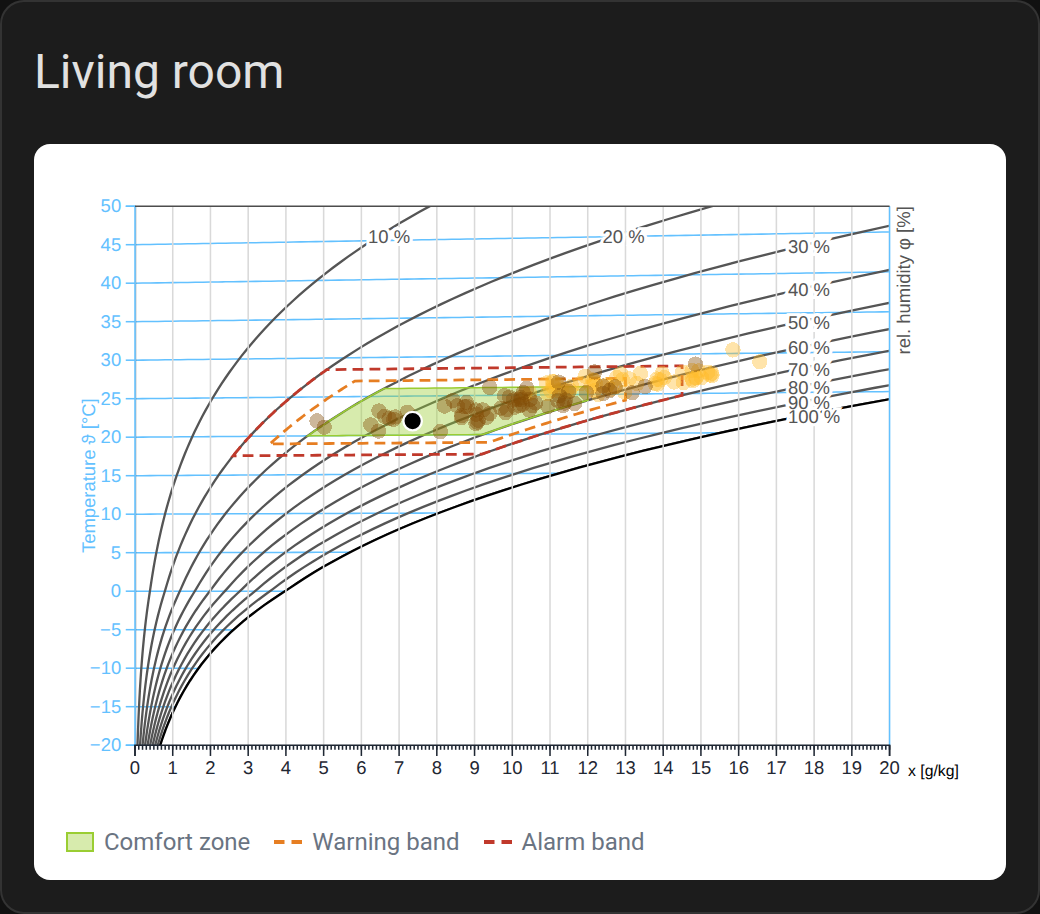
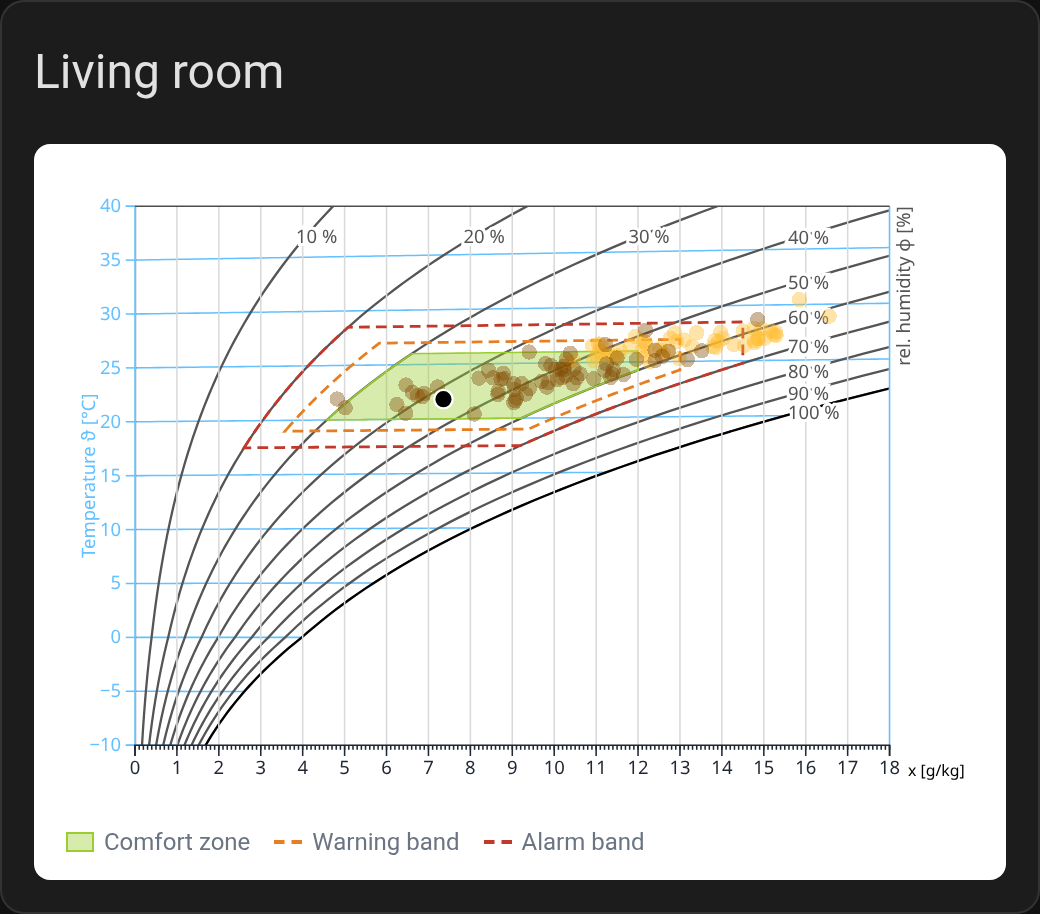
1.0.0-beta.4: default axis ranges for indoor climate
Default domain -10..40 °C and 0..18 g/kg (was -20..50 °C, 0..20 g/kg).
The editor writes domain_x / domain_y only when they differ from the
defaults.

diff --git a/dist/mollier-hx-card.js b/dist/mollier-hx-card.js
@@ -128,7 +128,7 @@
         height: 0;
         border-top: 2px dashed;
     }
-`;let rm=["classical","glueck"],r_=[0,.02],rg=[-20,50],ry={temperature:!0,relative_humidity:!0,absolute_humidity:!0,density:!1,enthalpy:!1},rx={temperature:"showTemperature",relative_humidity:"showRelHumidity",absolute_humidity:"showAbsHumidity",density:"showDensity",enthalpy:"showEnthalpy"};function rb(t){let e={...ry};if(t&&"object"==typeof t)for(let r of Object.keys(ry))"boolean"==typeof t[r]&&(e[r]=t[r]);return e}let rv={top:30,right:60,bottom:40,left:50},r$={spring:"#2db27d",summer:"#febc2b",autumn:"#824b04",winter:"#365c8d"};function rw(t){return 11===t||t<=1?"winter":t<=4?"spring":t<=7?"summer":"autumn"}function rA(t,e,r){if(!Array.isArray(t)||2!==t.length||!t.every(Number.isFinite))return e;let[n,i]=t.map(Number);return n===i?e:[Math.min(n,i)*r,Math.max(n,i)*r]}let rk=Object.keys(ry),rM={days:7,coloring:"season",pressure:101325,altitude:450,convention:"classical",x_min:0,x_max:20,y_min:-20,y_max:50,comfort_t_min:20,comfort_t_max:26,comfort_phi_min:30,comfort_phi_max:60,comfort_x_min:0,comfort_x_max:12,orange_dt:1,orange_dphi:5,orange_dx:1,red_dt:2.5,red_dphi:10,red_dx:2.5},rE=["type","temperature_entity","humidity_entity","header","days","coloring","convention","domain_x","domain_y","lines","altitude","pressure","comfort_zone","warning_bands"],rC=t=>({type:"grid",schema:[{name:`${t}_dt`,selector:{number:{min:0,step:.5,mode:"box",unit_of_measurement:"K"}}},{name:`${t}_dphi`,selector:{number:{min:0,max:100,step:1,mode:"box",unit_of_measurement:"%"}}},{name:`${t}_dx`,selector:{number:{min:0,step:.5,mode:"box",unit_of_measurement:"g/kg"}}}]}),rN=[{type:"grid",schema:[{name:"comfort_t_min",selector:{number:{step:.5,mode:"box",unit_of_measurement:"°C"}}},{name:"comfort_t_max",selector:{number:{step:.5,mode:"box",unit_of_measurement:"°C"}}}]},{type:"grid",schema:[{name:"comfort_phi_min",selector:{number:{min:0,max:100,step:1,mode:"box",unit_of_measurement:"%"}}},{name:"comfort_phi_max",selector:{number:{min:0,max:100,step:1,mode:"box",unit_of_measurement:"%"}}}]},{type:"grid",schema:[{name:"comfort_x_min",selector:{number:{min:0,step:.5,mode:"box",unit_of_measurement:"g/kg"}}},{name:"comfort_x_max",selector:{number:{min:0,step:.5,mode:"box",unit_of_measurement:"g/kg"}}}]}];customElements.define("mollier-hx-card",class extends tb{_hass;_drawn=!1;_fetchKey=null;_dailyData=[];static get properties(){return{_header:{state:!0},layout:{type:String,reflect:!0},_fixedHeight:{type:Boolean,reflect:!0,attribute:"fixed-height"},_tempEntity:{state:!0},_humEntity:{state:!0},_pressure:{state:!0},_days:{state:!0},_coloring:{state:!0},_comfortZone:{state:!0},_warningBands:{state:!0},_domainX:{state:!0},_domainY:{state:!0},_convention:{state:!0},_lines:{state:!0},_currentPoint:{state:!0},_error:{state:!0}}}setConfig(t){if(this._config=t,this._updateSizingMode(),!t.temperature_entity)throw Error("temperature_entity is required");if(!t.humidity_entity)throw Error("humidity_entity is required");(this._header=""===t.header||void 0===t.header?tn:t.header,this._tempEntity=t.temperature_entity,this._humEntity=t.humidity_entity,Number.isFinite(Number(t.altitude)))?this._pressure=101325*Math.pow(1-225577e-10*Number(t.altitude),5.25588):this._pressure=Number(t.pressure)||101325,this._days=Math.max(1,Number(t.days)||7),this._coloring=t.coloring||"season",this._comfortZone=function(t){if(!t)return null;let e=t.temperature,r=t.humidity,n=t.absolute_humidity,i=t=>Array.isArray(t)&&2===t.length&&t.every(Number.isFinite);return i(e)&&i(r)&&i(n)?{range_t:[Number(e[0]),Number(e[1])],range_phi:[Number(r[0])/100,Number(r[1])/100],range_x:[Number(n[0])/1e3,Number(n[1])/1e3]}:null}(t.comfort_zone),this._warningBands=function(t){if(!t)return null;let e=!0===t?{}:t,r={};for(let t of["orange","red"]){let n=rn[t],i=e[t]||{};r[t]={dt:Math.abs(ri(i.temperature,n.dt)),dphi:Math.abs(ri(i.humidity,n.dphi)),dx:Math.abs(ri(i.absolute_humidity,n.dx)),color:"string"==typeof i.color&&i.color?i.color:n.color,label:"string"==typeof i.label&&i.label?i.label:null}}return r.red.dt=Math.max(r.red.dt,r.orange.dt),r.red.dphi=Math.max(r.red.dphi,r.orange.dphi),r.red.dx=Math.max(r.red.dx,r.orange.dx),r}(t.warning_bands),this._domainX=rA(t.domain_x,r_,.001),this._domainY=rA(t.domain_y,rg,1),this._lines=rb(t.lines),this._convention=rm.includes(t.convention)?t.convention:"classical",this._mollier=e9(this._convention),this._hass&&this._maybeFetch()}set hass(t){let e=!this._hass;this._hass=t,e&&this._tempEntity&&this._maybeFetch(),this._updateCurrentPoint()}_updateCurrentPoint(){if(!this._hass||!this._tempEntity||!this._humEntity||!this._mollier){this._currentPoint=null;return}let t=this._hass.states[this._tempEntity],e=this._hass.states[this._humEntity];if(!t||!e){this._currentPoint=null;return}let r=function(t){let e=parseFloat(t?.state);return Number.isFinite(e)?t?.attributes?.unit_of_measurement==="°F"?(e-32)*5/9:e:NaN}(t),n=parseFloat(e.state);if(!Number.isFinite(r)||!Number.isFinite(n)){this._currentPoint=null;return}let i=n>1?n/100:n,a=this._mollier.get_x_y(r,i,this._pressure);if(!Number.isFinite(a.x)||!Number.isFinite(a.y)){this._currentPoint=null;return}let o={x:a.x,y:a.y,t:r,phi:i},s=this._currentPoint;s&&s.x===o.x&&s.y===o.y||(this._currentPoint=o)}async _maybeFetch(t=!1){if(!this._hass||!this._tempEntity||!this._humEntity)return;let e=`${this._tempEntity}|${this._humEntity}|${this._days}`;if(e!==this._fetchKey||t){this._fetchKey=e;try{let t=await rf(this._hass,this._tempEntity,this._humEntity,this._days);if(this._fetchKey!==e)return;this._dailyData=t,this._error=t.length?void 0:{key:"card.no_statistics"}}catch(t){if(this._fetchKey!==e)return;this._error={key:"card.fetch_failed",vars:{error:t&&t.message||t}},this._fetchKey=null}this.requestUpdate()}}connectedCallback(){super.connectedCallback(),clearInterval(this._refreshTimer),this._refreshTimer=setInterval(()=>this._maybeFetch(!0),36e5),this._wasConnected&&this._maybeFetch(!0),this._wasConnected=!0}disconnectedCallback(){super.disconnectedCallback(),clearInterval(this._refreshTimer),this._refreshTimer=void 0}_updateSizingMode(){let t=this._config?.grid_options?.rows;this._fixedHeight="panel"===this.layout||"grid"===this.layout&&"number"==typeof t}willUpdate(t){t.has("layout")&&this._updateSizingMode()}static styles=rp;render(){return te`
+`;let rm=["classical","glueck"],r_=[0,.018],rg=[-10,40],ry={temperature:!0,relative_humidity:!0,absolute_humidity:!0,density:!1,enthalpy:!1},rx={temperature:"showTemperature",relative_humidity:"showRelHumidity",absolute_humidity:"showAbsHumidity",density:"showDensity",enthalpy:"showEnthalpy"};function rb(t){let e={...ry};if(t&&"object"==typeof t)for(let r of Object.keys(ry))"boolean"==typeof t[r]&&(e[r]=t[r]);return e}let rv={top:30,right:60,bottom:40,left:50},r$={spring:"#2db27d",summer:"#febc2b",autumn:"#824b04",winter:"#365c8d"};function rw(t){return 11===t||t<=1?"winter":t<=4?"spring":t<=7?"summer":"autumn"}function rA(t,e,r){if(!Array.isArray(t)||2!==t.length||!t.every(Number.isFinite))return e;let[n,i]=t.map(Number);return n===i?e:[Math.min(n,i)*r,Math.max(n,i)*r]}let rk=Object.keys(ry),rM={days:7,coloring:"season",pressure:101325,altitude:450,convention:"classical",x_min:0,x_max:18,y_min:-10,y_max:40,comfort_t_min:20,comfort_t_max:26,comfort_phi_min:30,comfort_phi_max:60,comfort_x_min:0,comfort_x_max:12,orange_dt:1,orange_dphi:5,orange_dx:1,red_dt:2.5,red_dphi:10,red_dx:2.5},rE=["type","temperature_entity","humidity_entity","header","days","coloring","convention","domain_x","domain_y","lines","altitude","pressure","comfort_zone","warning_bands"],rC=t=>({type:"grid",schema:[{name:`${t}_dt`,selector:{number:{min:0,step:.5,mode:"box",unit_of_measurement:"K"}}},{name:`${t}_dphi`,selector:{number:{min:0,max:100,step:1,mode:"box",unit_of_measurement:"%"}}},{name:`${t}_dx`,selector:{number:{min:0,step:.5,mode:"box",unit_of_measurement:"g/kg"}}}]}),rN=[{type:"grid",schema:[{name:"comfort_t_min",selector:{number:{step:.5,mode:"box",unit_of_measurement:"°C"}}},{name:"comfort_t_max",selector:{number:{step:.5,mode:"box",unit_of_measurement:"°C"}}}]},{type:"grid",schema:[{name:"comfort_phi_min",selector:{number:{min:0,max:100,step:1,mode:"box",unit_of_measurement:"%"}}},{name:"comfort_phi_max",selector:{number:{min:0,max:100,step:1,mode:"box",unit_of_measurement:"%"}}}]},{type:"grid",schema:[{name:"comfort_x_min",selector:{number:{min:0,step:.5,mode:"box",unit_of_measurement:"g/kg"}}},{name:"comfort_x_max",selector:{number:{min:0,step:.5,mode:"box",unit_of_measurement:"g/kg"}}}]}];customElements.define("mollier-hx-card",class extends tb{_hass;_drawn=!1;_fetchKey=null;_dailyData=[];static get properties(){return{_header:{state:!0},layout:{type:String,reflect:!0},_fixedHeight:{type:Boolean,reflect:!0,attribute:"fixed-height"},_tempEntity:{state:!0},_humEntity:{state:!0},_pressure:{state:!0},_days:{state:!0},_coloring:{state:!0},_comfortZone:{state:!0},_warningBands:{state:!0},_domainX:{state:!0},_domainY:{state:!0},_convention:{state:!0},_lines:{state:!0},_currentPoint:{state:!0},_error:{state:!0}}}setConfig(t){if(this._config=t,this._updateSizingMode(),!t.temperature_entity)throw Error("temperature_entity is required");if(!t.humidity_entity)throw Error("humidity_entity is required");(this._header=""===t.header||void 0===t.header?tn:t.header,this._tempEntity=t.temperature_entity,this._humEntity=t.humidity_entity,Number.isFinite(Number(t.altitude)))?this._pressure=101325*Math.pow(1-225577e-10*Number(t.altitude),5.25588):this._pressure=Number(t.pressure)||101325,this._days=Math.max(1,Number(t.days)||7),this._coloring=t.coloring||"season",this._comfortZone=function(t){if(!t)return null;let e=t.temperature,r=t.humidity,n=t.absolute_humidity,i=t=>Array.isArray(t)&&2===t.length&&t.every(Number.isFinite);return i(e)&&i(r)&&i(n)?{range_t:[Number(e[0]),Number(e[1])],range_phi:[Number(r[0])/100,Number(r[1])/100],range_x:[Number(n[0])/1e3,Number(n[1])/1e3]}:null}(t.comfort_zone),this._warningBands=function(t){if(!t)return null;let e=!0===t?{}:t,r={};for(let t of["orange","red"]){let n=rn[t],i=e[t]||{};r[t]={dt:Math.abs(ri(i.temperature,n.dt)),dphi:Math.abs(ri(i.humidity,n.dphi)),dx:Math.abs(ri(i.absolute_humidity,n.dx)),color:"string"==typeof i.color&&i.color?i.color:n.color,label:"string"==typeof i.label&&i.label?i.label:null}}return r.red.dt=Math.max(r.red.dt,r.orange.dt),r.red.dphi=Math.max(r.red.dphi,r.orange.dphi),r.red.dx=Math.max(r.red.dx,r.orange.dx),r}(t.warning_bands),this._domainX=rA(t.domain_x,r_,.001),this._domainY=rA(t.domain_y,rg,1),this._lines=rb(t.lines),this._convention=rm.includes(t.convention)?t.convention:"classical",this._mollier=e9(this._convention),this._hass&&this._maybeFetch()}set hass(t){let e=!this._hass;this._hass=t,e&&this._tempEntity&&this._maybeFetch(),this._updateCurrentPoint()}_updateCurrentPoint(){if(!this._hass||!this._tempEntity||!this._humEntity||!this._mollier){this._currentPoint=null;return}let t=this._hass.states[this._tempEntity],e=this._hass.states[this._humEntity];if(!t||!e){this._currentPoint=null;return}let r=function(t){let e=parseFloat(t?.state);return Number.isFinite(e)?t?.attributes?.unit_of_measurement==="°F"?(e-32)*5/9:e:NaN}(t),n=parseFloat(e.state);if(!Number.isFinite(r)||!Number.isFinite(n)){this._currentPoint=null;return}let i=n>1?n/100:n,a=this._mollier.get_x_y(r,i,this._pressure);if(!Number.isFinite(a.x)||!Number.isFinite(a.y)){this._currentPoint=null;return}let o={x:a.x,y:a.y,t:r,phi:i},s=this._currentPoint;s&&s.x===o.x&&s.y===o.y||(this._currentPoint=o)}async _maybeFetch(t=!1){if(!this._hass||!this._tempEntity||!this._humEntity)return;let e=`${this._tempEntity}|${this._humEntity}|${this._days}`;if(e!==this._fetchKey||t){this._fetchKey=e;try{let t=await rf(this._hass,this._tempEntity,this._humEntity,this._days);if(this._fetchKey!==e)return;this._dailyData=t,this._error=t.length?void 0:{key:"card.no_statistics"}}catch(t){if(this._fetchKey!==e)return;this._error={key:"card.fetch_failed",vars:{error:t&&t.message||t}},this._fetchKey=null}this.requestUpdate()}}connectedCallback(){super.connectedCallback(),clearInterval(this._refreshTimer),this._refreshTimer=setInterval(()=>this._maybeFetch(!0),36e5),this._wasConnected&&this._maybeFetch(!0),this._wasConnected=!0}disconnectedCallback(){super.disconnectedCallback(),clearInterval(this._refreshTimer),this._refreshTimer=void 0}_updateSizingMode(){let t=this._config?.grid_options?.rows;this._fixedHeight="panel"===this.layout||"grid"===this.layout&&"number"==typeof t}willUpdate(t){t.has("layout")&&this._updateSizingMode()}static styles=rp;render(){return te`
             <ha-card header="${this._header}">
                 <div class="card-content">
                     ${this._error?te`<p class="${"card.no_statistics"===this._error.key?"message":"error"}">${this._t(this._error.key,this._error.vars)}</p>`:te`
@@ -158,4 +158,4 @@
                 .computeLabel=${t=>e(`editor.fields.${t.name}`)}
                 @value-changed=${this._valueChanged}
             ></ha-form>
-        `}_valueChanged(t){let e=function(t,e={}){let r={...e};for(let t of rE)delete r[t];Object.assign(r,{type:"custom:mollier-hx-card",temperature_entity:t.temperature_entity,humidity_entity:t.humidity_entity,days:t.days,coloring:t.coloring,convention:t.convention,domain_x:[t.x_min,t.x_max],domain_y:[t.y_min,t.y_max]}),t.header&&(r.header=t.header);let n={};for(let e of rk)t[`line_${e}`]!==ry[e]&&(n[e]=t[`line_${e}`]);if(Object.keys(n).length&&(r.lines=n),"altitude"===t.air_mode?r.altitude=t.altitude:(void 0!==e.pressure||t.pressure!==rM.pressure)&&(r.pressure=t.pressure),t.comfort_enabled&&(r.comfort_zone={temperature:[t.comfort_t_min,t.comfort_t_max],humidity:[t.comfort_phi_min,t.comfort_phi_max],absolute_humidity:[t.comfort_x_min,t.comfort_x_max]},t.bands_enabled)){let n="object"==typeof e.warning_bands&&e.warning_bands?e.warning_bands:{};r.warning_bands={orange:{...n.orange,temperature:t.orange_dt,humidity:t.orange_dphi,absolute_humidity:t.orange_dx},red:{...n.red,temperature:t.red_dt,humidity:t.red_dphi,absolute_humidity:t.red_dx}}}return r}(t.detail.value,this._config);this.dispatchEvent(new CustomEvent("config-changed",{detail:{config:e},bubbles:!0,composed:!0}))}}),window.customCards=window.customCards||[],window.customCards.push({type:"mollier-hx-card",name:"Mollier hx card",description:"A custom card which creates a mollier hx diagram out of a temperature- and humidity sensor entity.",preview:!0,documentationURL:"https://github.com/retomarek/mollier-hx-card"}),console.info("%c MOLLIER-HX-CARD %c v1.0.0-beta.3 ","color: white; background: #3b6ea8; font-weight: 700;","color: #3b6ea8; background: white; font-weight: 700;")})();
+        `}_valueChanged(t){let e=function(t,e={}){let r={...e};for(let t of rE)delete r[t];Object.assign(r,{type:"custom:mollier-hx-card",temperature_entity:t.temperature_entity,humidity_entity:t.humidity_entity,days:t.days,coloring:t.coloring,convention:t.convention}),(t.x_min!==rM.x_min||t.x_max!==rM.x_max)&&(r.domain_x=[t.x_min,t.x_max]),(t.y_min!==rM.y_min||t.y_max!==rM.y_max)&&(r.domain_y=[t.y_min,t.y_max]),t.header&&(r.header=t.header);let n={};for(let e of rk)t[`line_${e}`]!==ry[e]&&(n[e]=t[`line_${e}`]);if(Object.keys(n).length&&(r.lines=n),"altitude"===t.air_mode?r.altitude=t.altitude:(void 0!==e.pressure||t.pressure!==rM.pressure)&&(r.pressure=t.pressure),t.comfort_enabled&&(r.comfort_zone={temperature:[t.comfort_t_min,t.comfort_t_max],humidity:[t.comfort_phi_min,t.comfort_phi_max],absolute_humidity:[t.comfort_x_min,t.comfort_x_max]},t.bands_enabled)){let n="object"==typeof e.warning_bands&&e.warning_bands?e.warning_bands:{};r.warning_bands={orange:{...n.orange,temperature:t.orange_dt,humidity:t.orange_dphi,absolute_humidity:t.orange_dx},red:{...n.red,temperature:t.red_dt,humidity:t.red_dphi,absolute_humidity:t.red_dx}}}return r}(t.detail.value,this._config);this.dispatchEvent(new CustomEvent("config-changed",{detail:{config:e},bubbles:!0,composed:!0}))}}),window.customCards=window.customCards||[],window.customCards.push({type:"mollier-hx-card",name:"Mollier hx card",description:"A custom card which creates a mollier hx diagram out of a temperature- and humidity sensor entity.",preview:!0,documentationURL:"https://github.com/retomarek/mollier-hx-card"}),console.info("%c MOLLIER-HX-CARD %c v1.0.0-beta.4 ","color: white; background: #3b6ea8; font-weight: 700;","color: #3b6ea8; background: white; font-weight: 700;")})();

diff --git a/src/editor.js b/src/editor.js
@@ -16,9 +16,9 @@ const DEFAULTS = {
     air_mode: 'pressure',
     convention: 'classical',
     x_min: 0,    // g/kg
-    x_max: 20,   // g/kg
-    y_min: -20,  // °C
-    y_max: 50,   // °C
+    x_max: 18,   // g/kg
+    y_min: -10,  // °C
+    y_max: 40,   // °C
     comfort_t_min: 20,
     comfort_t_max: 26,
     comfort_phi_min: 30,
@@ -82,9 +82,11 @@ function dataToConfig(data, previous = {}) {
         days: data.days,
         coloring: data.coloring,
         convention: data.convention,
-        domain_x: [data.x_min, data.x_max],
-        domain_y: [data.y_min, data.y_max],
     });
+    // Write the axis ranges only when they differ from the card defaults, so
+    // the card follows future default changes.
+    if (data.x_min !== DEFAULTS.x_min || data.x_max !== DEFAULTS.x_max) config.domain_x = [data.x_min, data.x_max];
+    if (data.y_min !== DEFAULTS.y_min || data.y_max !== DEFAULTS.y_max) config.domain_y = [data.y_min, data.y_max];
     if (data.header) config.header = data.header;
     // Store only the lines that differ from the defaults, to keep YAML short.
     const lines = {};

diff --git a/src/card.js b/src/card.js
@@ -15,8 +15,9 @@ const DEFAULT_CONVENTION = 'classical';
 const VALID_CONVENTIONS = ['classical', 'glueck'];
 // Internal units are kg/kg for x and °C for y; user config is expressed in
 // g/kg (x) and °C (y) — see _parseDomainX below.
-const DEFAULT_DOMAIN_X = [0.0, 0.020];
-const DEFAULT_DOMAIN_Y = [-20.0, 50.0];
+// Indoor climate range: -10..40 °C, 0..18 g/kg.
+const DEFAULT_DOMAIN_X = [0.0, 0.018];
+const DEFAULT_DOMAIN_Y = [-10.0, 40.0];
 // Iso-line families the user can switch on and off (config key → option of
 // the vendored drawHXCoordinates). Density and enthalpy are off by default.
 export const LINE_DEFAULTS = {

diff --git a/src/mollier-hx-card.js b/src/mollier-hx-card.js
@@ -1,5 +1,5 @@
 // Keep in sync with "version" in package.json.
-const version = "1.0.0-beta.3";
+const version = "1.0.0-beta.4";
 import { MollierHxCard } from "./card";
 import { MollierHxCardEditor } from "./editor";
 

diff --git a/CHANGELOG.md b/CHANGELOG.md
@@ -4,6 +4,12 @@ All notable changes to this card. The format follows [Keep a Changelog](https://
 
 ## [Unreleased]
 
+## [1.0.0-beta.4] - 2026-11-05
+
+### Changed
+
+- Default axis ranges fit indoor climate: −10 to 40 °C and 0 to 18 g/kg (was −20 to 50 °C and 0 to 20 g/kg). The editor only writes the ranges when they differ from the defaults.
+
 ## [1.0.0-beta.3] - 2026-11-05
 
 ### Added
@@ -65,7 +71,8 @@ All notable changes to this card. The format follows [Keep a Changelog](https://
 
 - First release.
 
-[Unreleased]: https://github.com/retomarek/mollier-hx-card/compare/v1.0.0-beta.3...HEAD
+[Unreleased]: https://github.com/retomarek/mollier-hx-card/compare/v1.0.0-beta.4...HEAD
+[1.0.0-beta.4]: https://github.com/retomarek/mollier-hx-card/releases/tag/v1.0.0-beta.4
 [1.0.0-beta.3]: https://github.com/retomarek/mollier-hx-card/releases/tag/v1.0.0-beta.3
 [1.0.0-beta.2]: https://github.com/retomarek/mollier-hx-card/releases/tag/v1.0.0-beta.2
 [1.0.0-beta.1]: https://github.com/retomarek/mollier-hx-card/releases/tag/v1.0.0-beta.1

diff --git a/README.md b/README.md
@@ -99,8 +99,8 @@ lines:
 | `altitude` | number | | Altitude in m above sea level. Sets the air pressure from the standard atmosphere and overrides `pressure`. |
 | `pressure` | number | `101325` | Air pressure in Pa. |
 | `convention` | string | `classical` | `classical` (per kg dry air, Recknagel) or `glueck` (per kg moist air). Same physics, slightly different tilt of the isotherms. |
-| `domain_x` | `[min, max]` | `[0, 20]` | Absolute-humidity axis in g/kg. |
-| `domain_y` | `[min, max]` | `[-20, 50]` | Temperature axis in °C. |
+| `domain_x` | `[min, max]` | `[0, 18]` | Absolute-humidity axis in g/kg. |
+| `domain_y` | `[min, max]` | `[-10, 40]` | Temperature axis in °C. |
 | `comfort_zone` | object | | Comfort zone, see below. |
 | `warning_bands` | `true` or object | | Needs `comfort_zone`. `true` uses the defaults, see below. |
 | `lines` | object | | Which iso-lines to draw: `temperature`, `relative_humidity`, `absolute_humidity` (on by default), `density`, `enthalpy` (off by default). |
